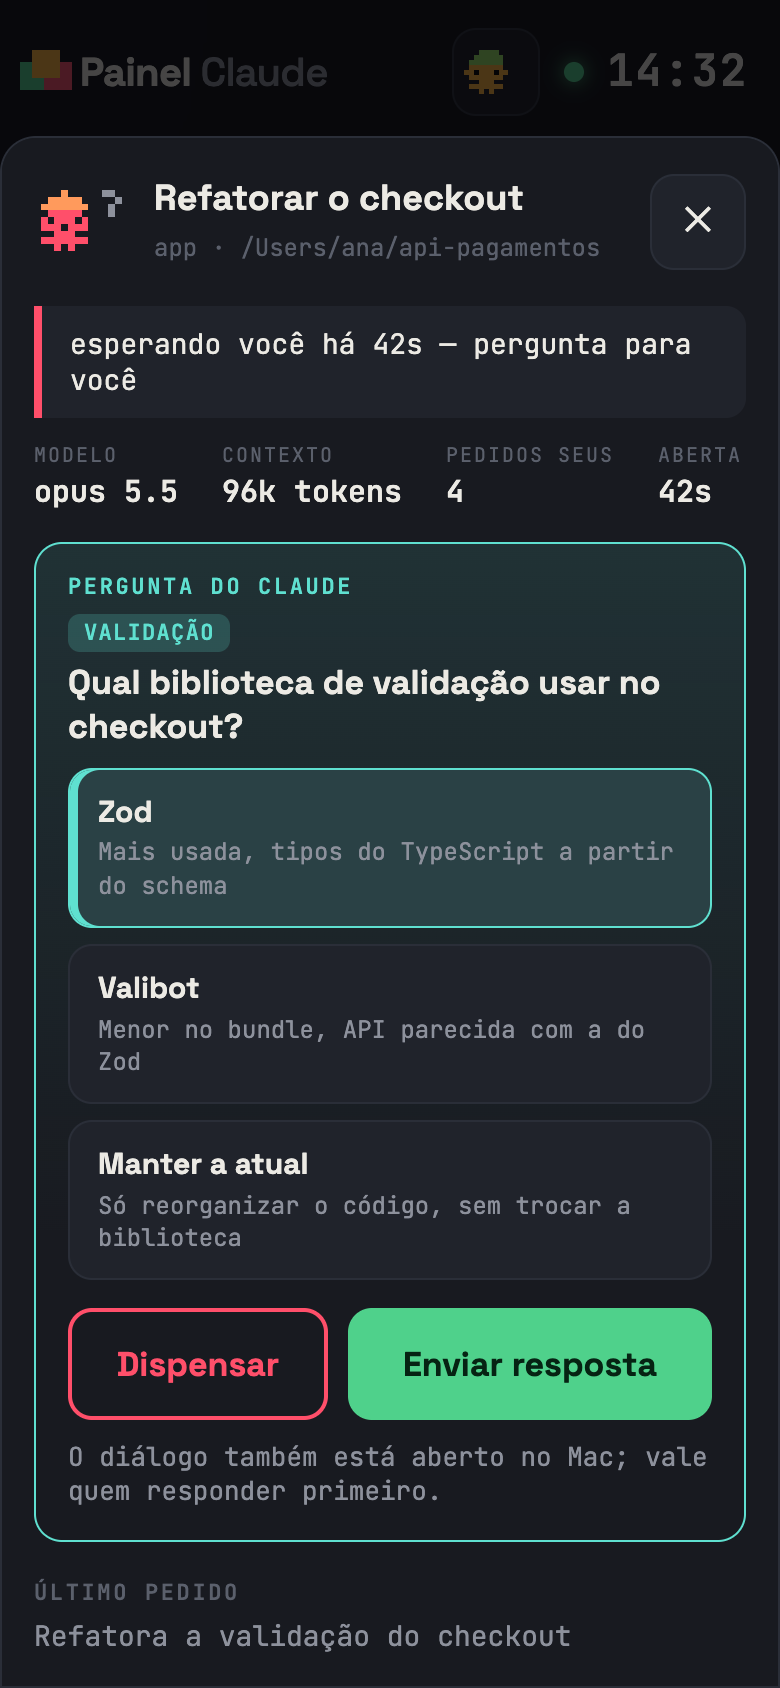
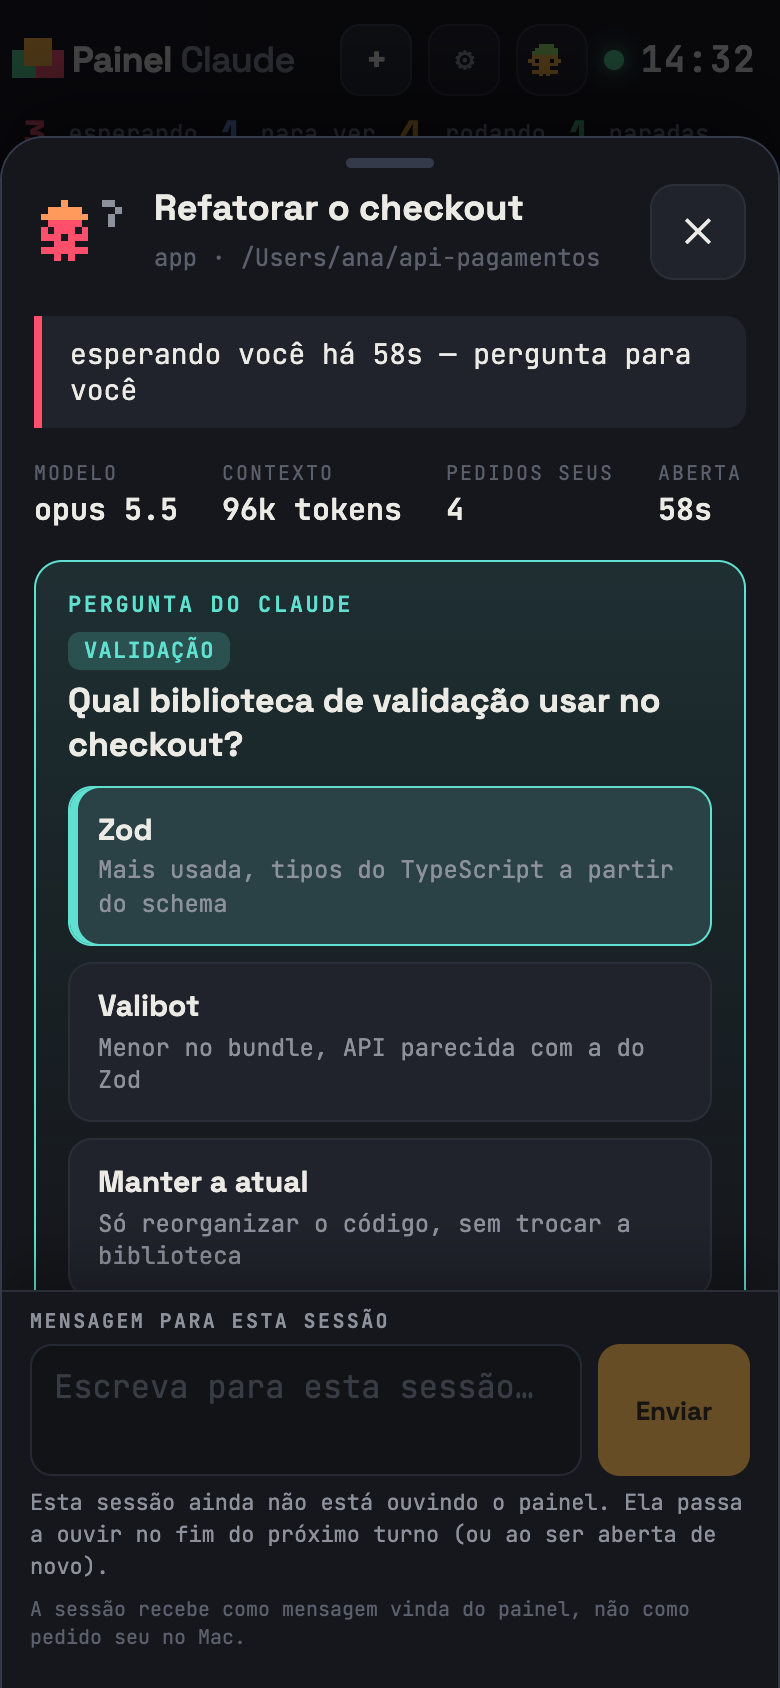
docs: capturas da proposta 4 (quadros, painel lateral, mapa e ajustes)

diff --git a/README.md b/README.md
@@ -12,6 +12,14 @@ computador.
 </p>
 
 <p align="center">
+  <img src="docs/imagens/painel-lateral.png" alt="Quadros por projeto com o detalhe da sessão aberto no painel lateral, com o pedido de permissão e o campo de mensagem" width="100%">
+</p>
+
+<p align="center">
+  <img src="docs/imagens/painel-mapa.png" alt="Modo mapa: projetos em volta do núcleo e sessões em órbita" width="100%">
+</p>
+
+<p align="center">
   <img src="docs/imagens/painel-familia-aberta.png" alt="Painel com uma família aberta: a sessão principal ligada às sessões que ela abriu" width="100%">
 </p>
 
